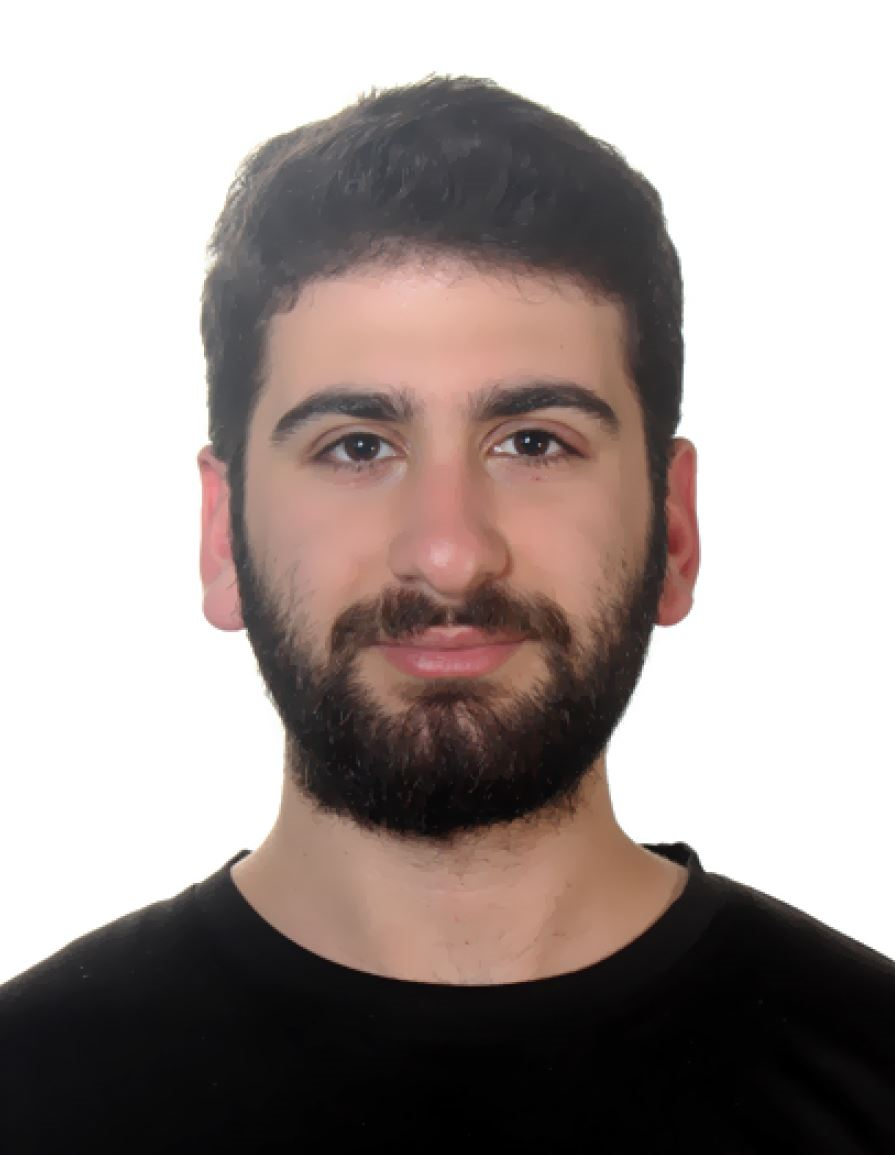
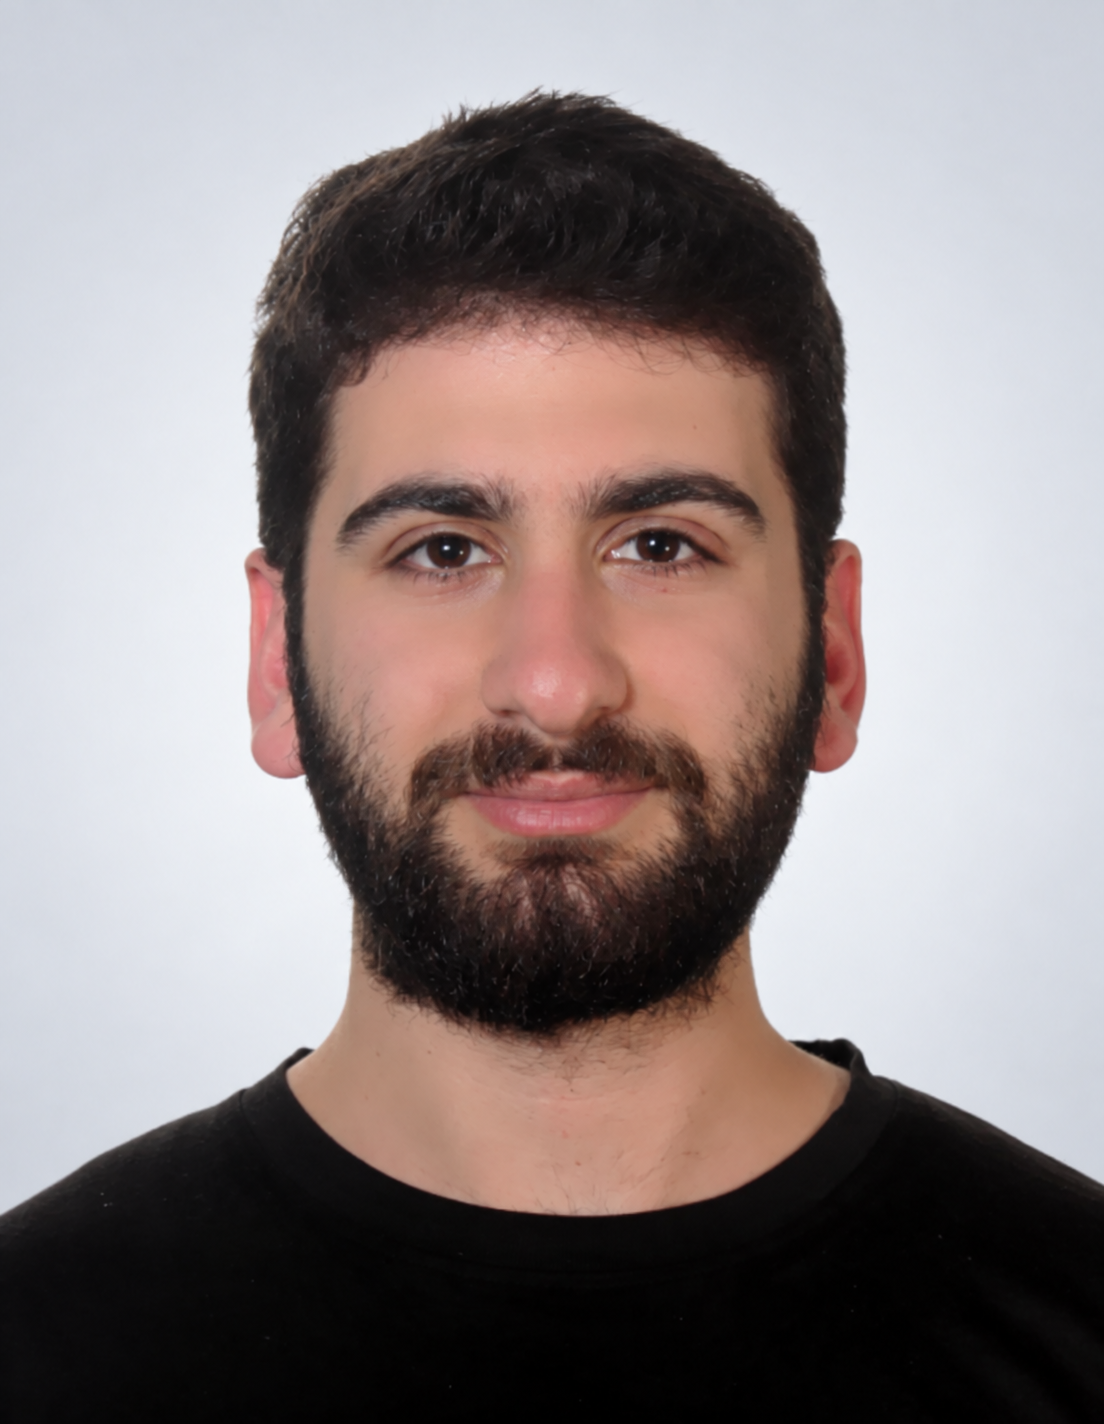
Fix pictures

diff --git a/_people/kazuki.html b/_people/kazuki.html
@@ -1,7 +1,7 @@
 ---
 title: Kazuki Egashira
 position: PhD Student
-image: kazuki.jpg
+image: kazuki.png
 email: kazuki.egashira@inf.ethz.ch
 office: CAB H 66
 ---

diff --git a/_people/chenhao.html b/_people/chenhao.html
@@ -1,7 +1,7 @@
 ---
 title: Chenhao Sun
 position: PhD Student
-image: chenhao.jpg
+image: chenhao.png
 email: chenhao.sun@inf.ethz.ch
 office: CNB H 100.5
 ---
